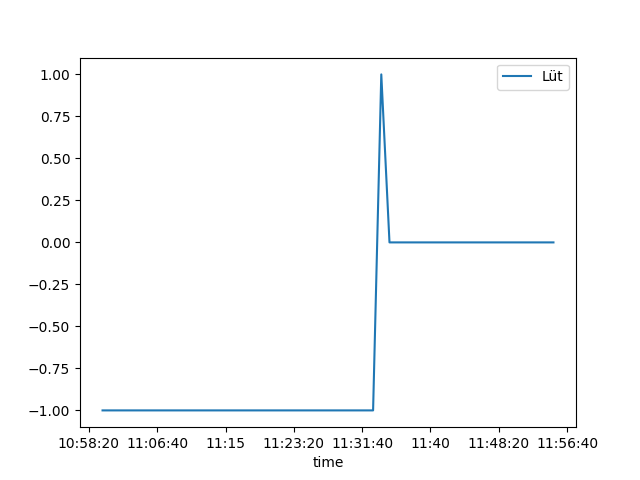
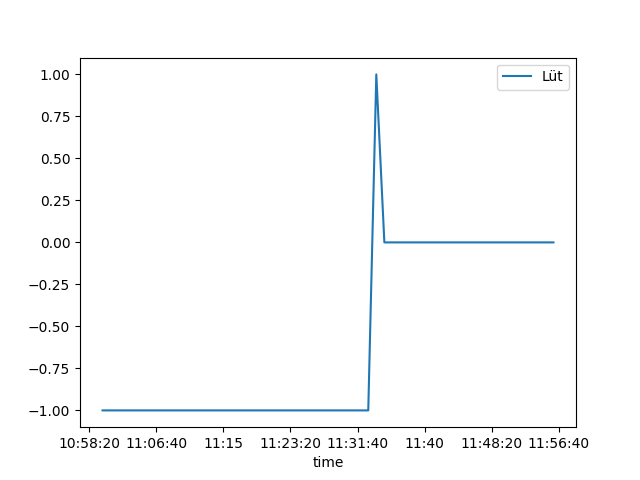
auto: new data

Changed region(s): [[0.5625, 0.1562, 0.625, 0.875], [0.4062, 0.9062, 0.9375, 0.9375], [0.0938, 0.9062, 0.375, 0.9375]]

diff --git a/README.md b/README.md
@@ -1,4 +1,4 @@
-### Jitz grad: 0/33 (Donnsti, 2021-12-30 11:55:00
+### Jitz grad: 0/33 (Donnsti, 2021-12-30 11:56:00
 
 ### Hütige Vrlouf:
 ![Graph](Today.png)
